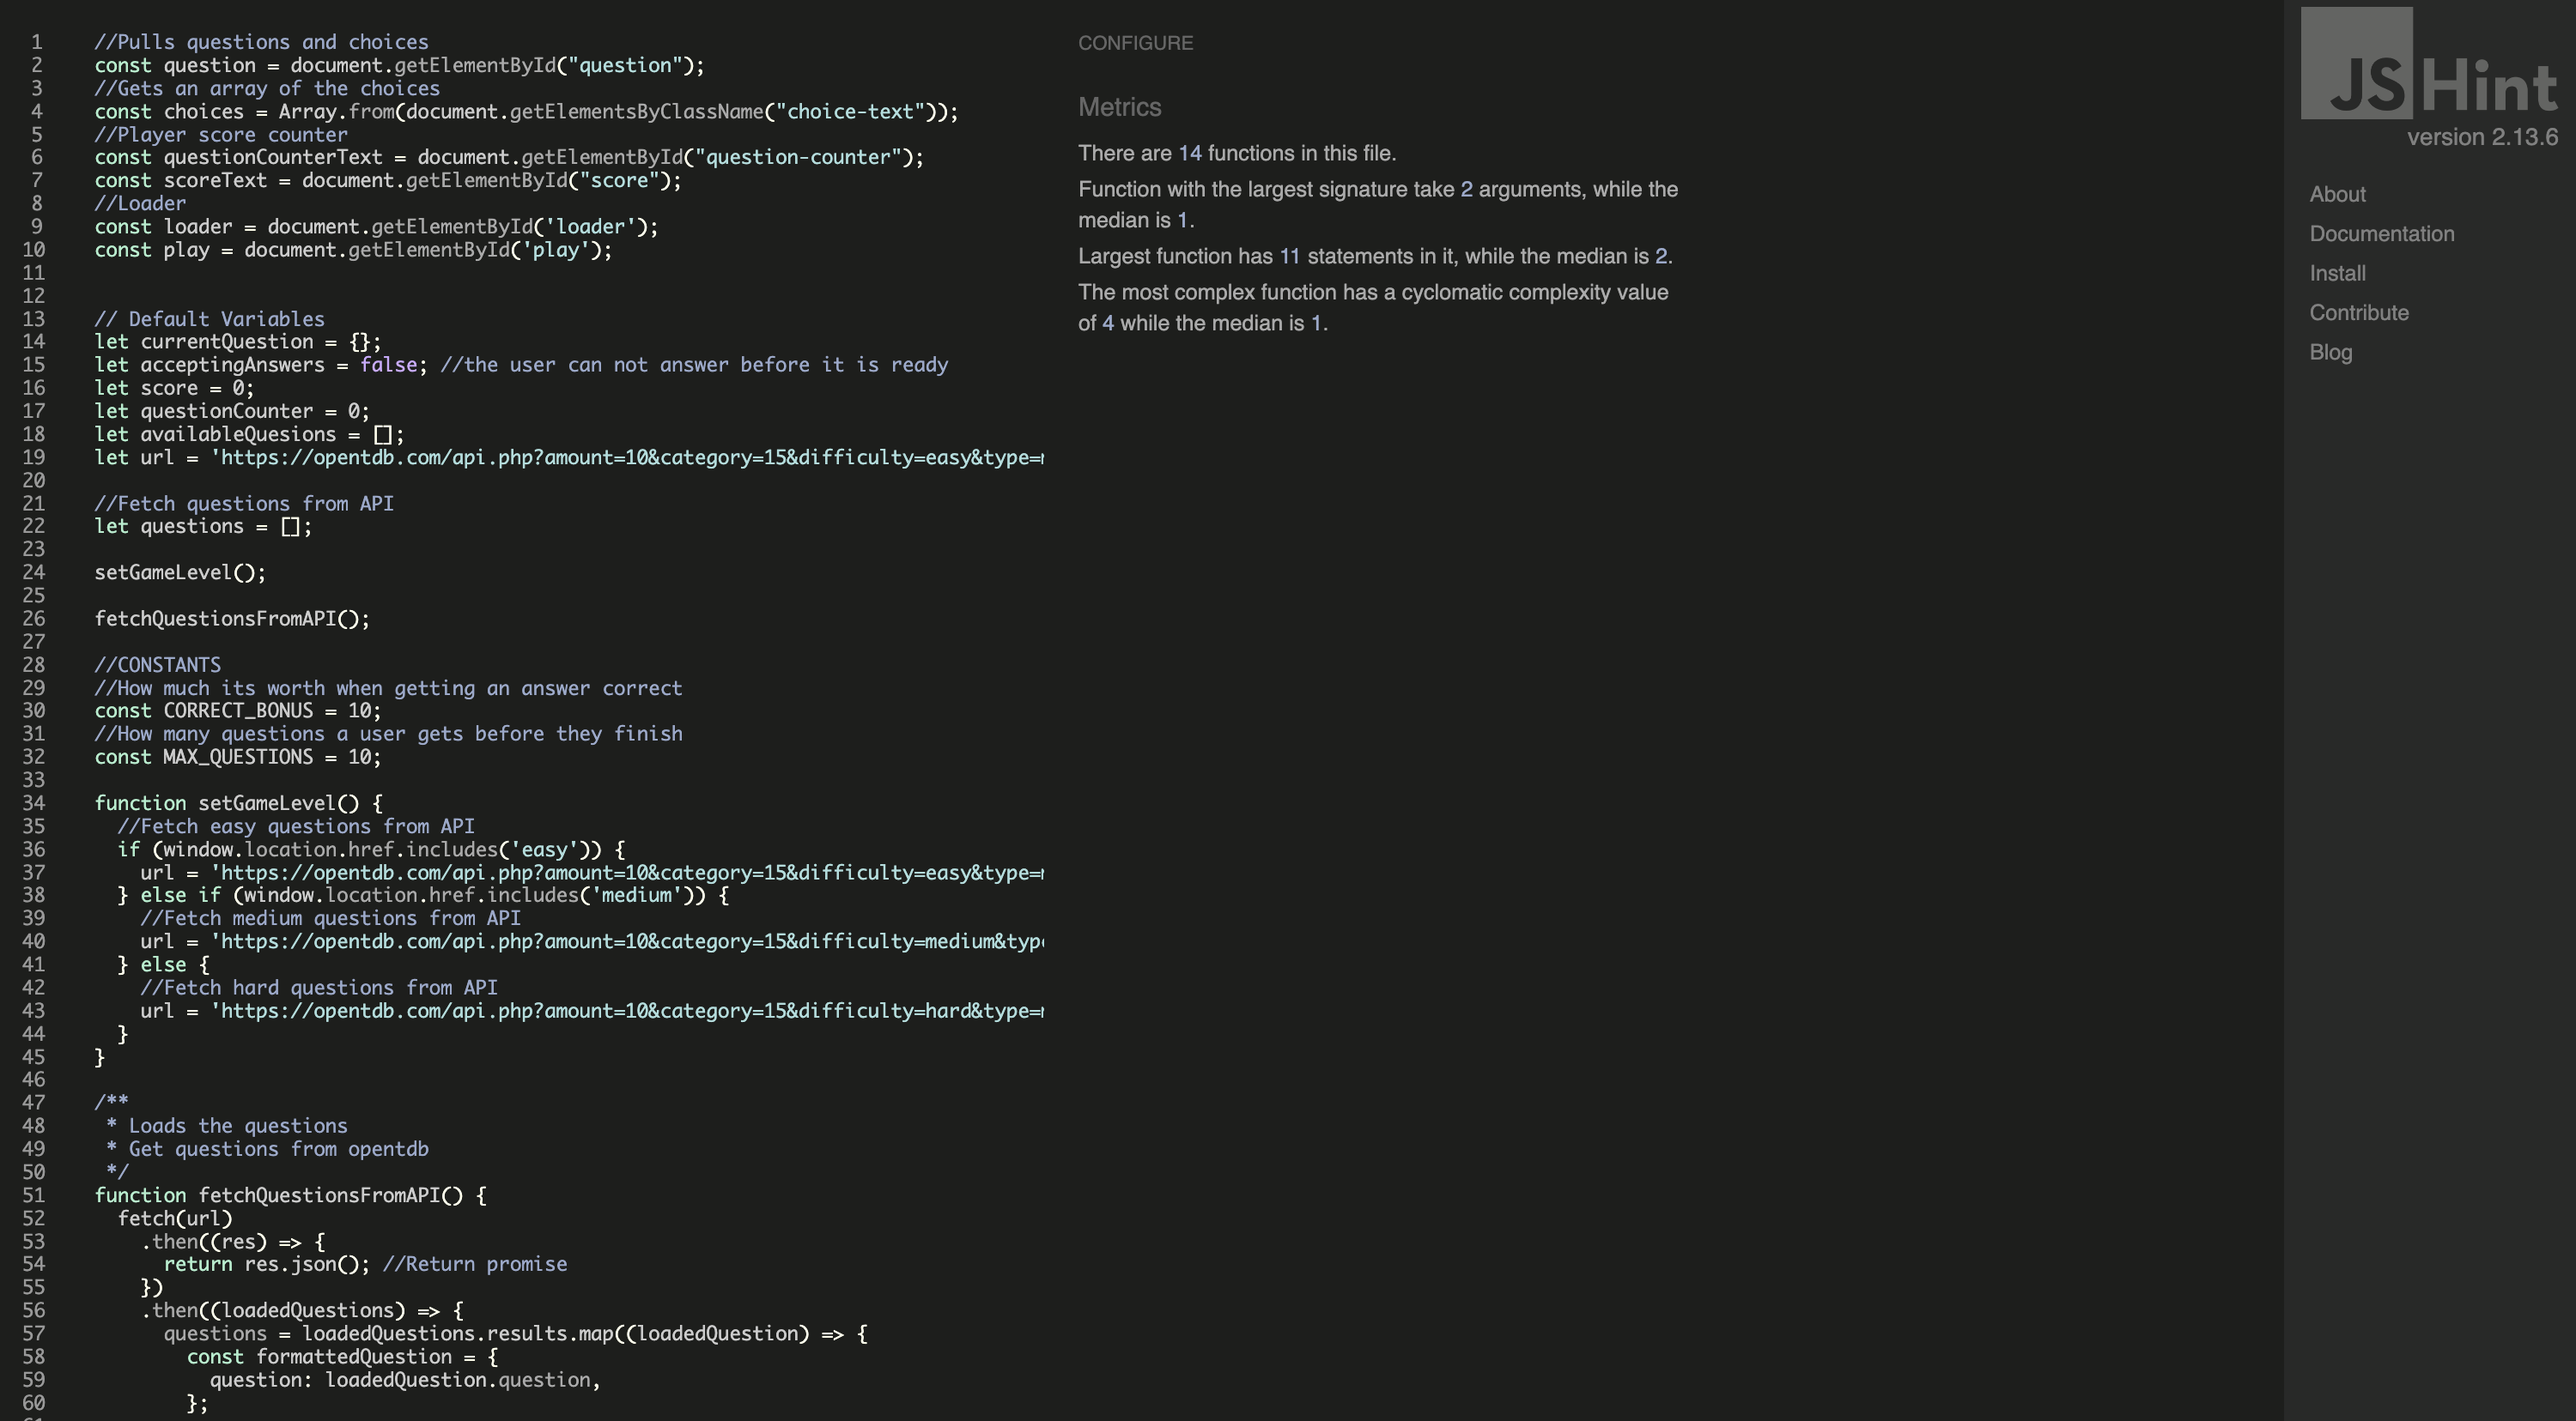
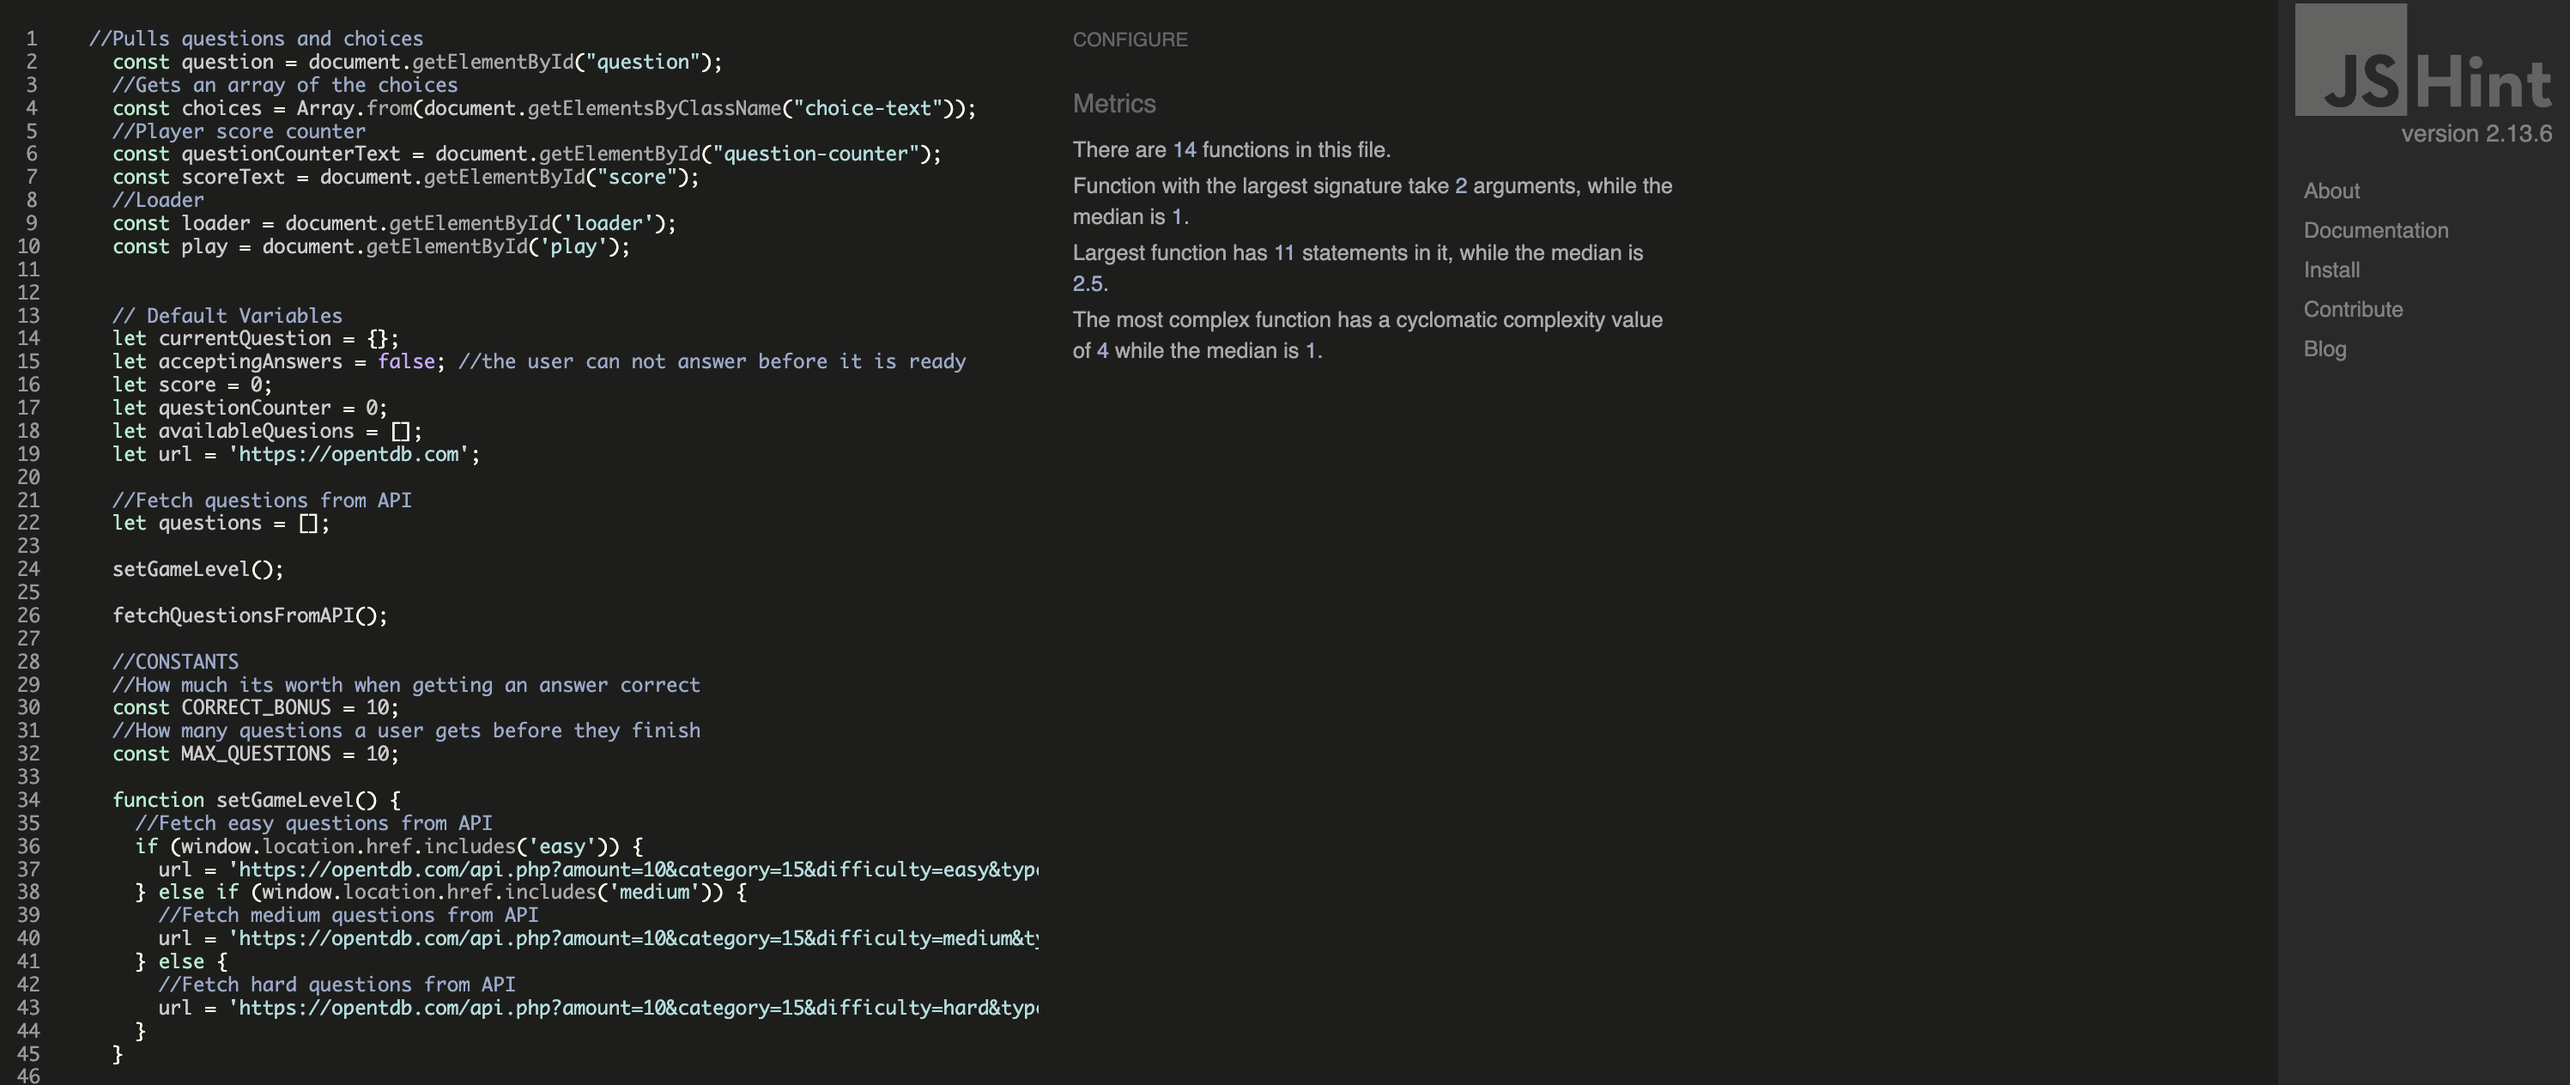
Update testing results & add badges

diff --git a/assets/js/game.js b/assets/js/game.js
@@ -16,7 +16,7 @@
   let score = 0;
   let questionCounter = 0;
   let availableQuesions = [];
-  let url = 'https://opentdb.com/api.php?amount=10&category=15&difficulty=easy&type=multiple';
+  let url = 'https://opentdb.com';
 
   //Fetch questions from API
   let questions = [];
@@ -158,11 +158,10 @@
   });
 
   /**
-  //Score counter
-This function increments the score
-and it stores it in the local storage
+  * Score counter
+* This function increments the score
+* and it stores it in the local storage
   } */
-  //Score counter
   function incrementScore(num) {
     score += num;
     scoreText.innerHTML = score;

diff --git a/TESTING.md b/TESTING.md
@@ -6,6 +6,13 @@ The Gamer Quiz is an interactive front-end web application in quiz format, based
 
 Visit the live site: [The Gamer Quiz](https://zest-studi-o.github.io/P02-The-Gamer-Quiz/)
 
+![GitHub contributors](https://img.shields.io/github/contributors/Zest-studi-o/P02-The-Gamer-Quiz?color=green)
+![GitHub last commit](https://img.shields.io/github/last-commit/Zest-studi-o/P02-The-Gamer-Quiz?color=purple)
+![W3C validated](https://img.shields.io/badge/W3C-validated-brightgreen)
+![Website](https://img.shields.io/website?down_message=offline&up_message=online&url=https%3A%2F%2Fzest-studi-o.github.io%2FP02-The-Gamer-Quiz%2F)
+![GitHub language count](https://img.shields.io/github/languages/count/Zest-studi-o/P02-The-Gamer-Quiz)
+![GitHub top language](https://img.shields.io/github/languages/top/Zest-studi-o/P02-The-Gamer-Quiz)
+
 ## CONTENTS
 
 * [AUTOMATED TESTING](#AUTOMATED-TESTING)
@@ -67,25 +74,25 @@ No errors were found when passing through the official
 
 - - -
 
-### JavaScript Validator (to complete again and add screenshots)
+### JavaScript Validator 
 
 [jshint](https://jshint.com/) was used to validate the JavaScript.
 
-#### Script - Passed.
+#### Script.js - Passed.
 No errors found.
 ![script.js](docs/testing/jshint/jshint-script.png)
 
-#### Game - Passed.
+#### Game.js - Passed.
 No errors found. 
 ![game.js](docs/testing/jshint/jshint-game.png) 
 
-#### High scores - Passed. 
+#### High-scores.js - Passed. 
 No errors found. 
 ![high-scores.js](docs/testing/jshint/jshint-high-scores.png)
 
-#### End - Passed. 
+#### End.js - Passed. 
 No errors found. 
-A warning about an undefined variable and an unused variable however, those are being defined and used.
+A warning about an undefined variable and an unused variable.
 ![end.js](docs/testing/jshint/jshint-end.png)
 
 
@@ -196,6 +203,11 @@ Each device tested the site using the following browsers:
 | --- | --- | --- | --- | --- |
 | Results list | The list shows the top 5 highest scores | Play any game, reach the end of the page, save scores more than 5 times | The top 5 scores are shown | Pass |
 | Go home | The go home button directs the user to the home page | Click on the go home button | The home page loads | Pass |
+
+`404 page`
+| Feature | Expected Result | Testing Performed | Actual Result | Pass/Fail |
+| --- | --- | --- | --- | --- |
+| Error page | The page shows when there is an issue fetching data from the API | Break the game | The 404 page shows | Pass |
 ---
 
 ## BUG TRACKER

diff --git a/README.md b/README.md
@@ -6,6 +6,13 @@ The Gamer Quiz is an interactive front-end web application in quiz format, based
 
 Visit the live site: [The Gamer Quiz](https://zest-studi-o.github.io/P02-The-Gamer-Quiz/)
 
+![GitHub contributors](https://img.shields.io/github/contributors/Zest-studi-o/P02-The-Gamer-Quiz?color=green)
+![GitHub last commit](https://img.shields.io/github/last-commit/Zest-studi-o/P02-The-Gamer-Quiz?color=purple)
+![W3C validated](https://img.shields.io/badge/W3C-validated-brightgreen)
+![Website](https://img.shields.io/website?down_message=offline&up_message=online&url=https%3A%2F%2Fzest-studi-o.github.io%2FP02-The-Gamer-Quiz%2F)
+![GitHub language count](https://img.shields.io/github/languages/count/Zest-studi-o/P02-The-Gamer-Quiz)
+![GitHub top language](https://img.shields.io/github/languages/top/Zest-studi-o/P02-The-Gamer-Quiz)
+
 # Table of contents
 
 - [User Experience (UX)](#User-Experience-UX)
